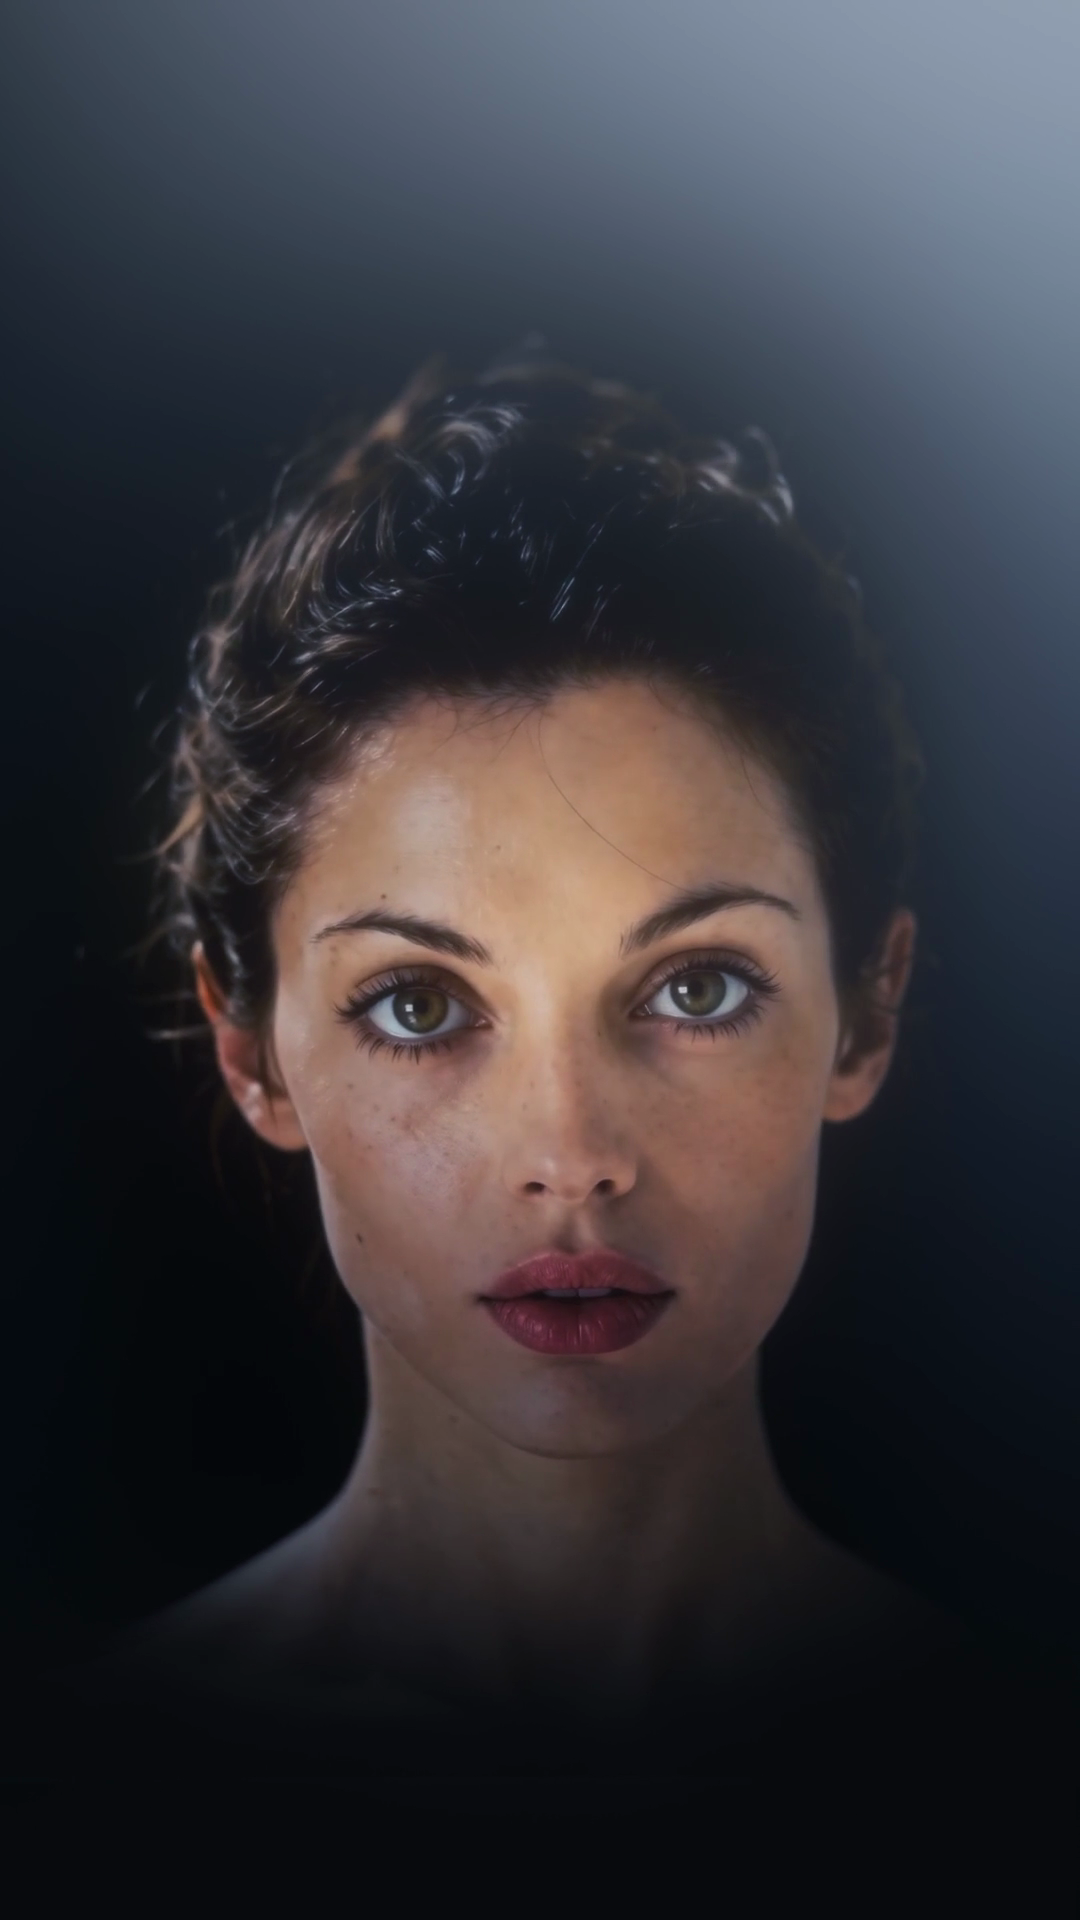
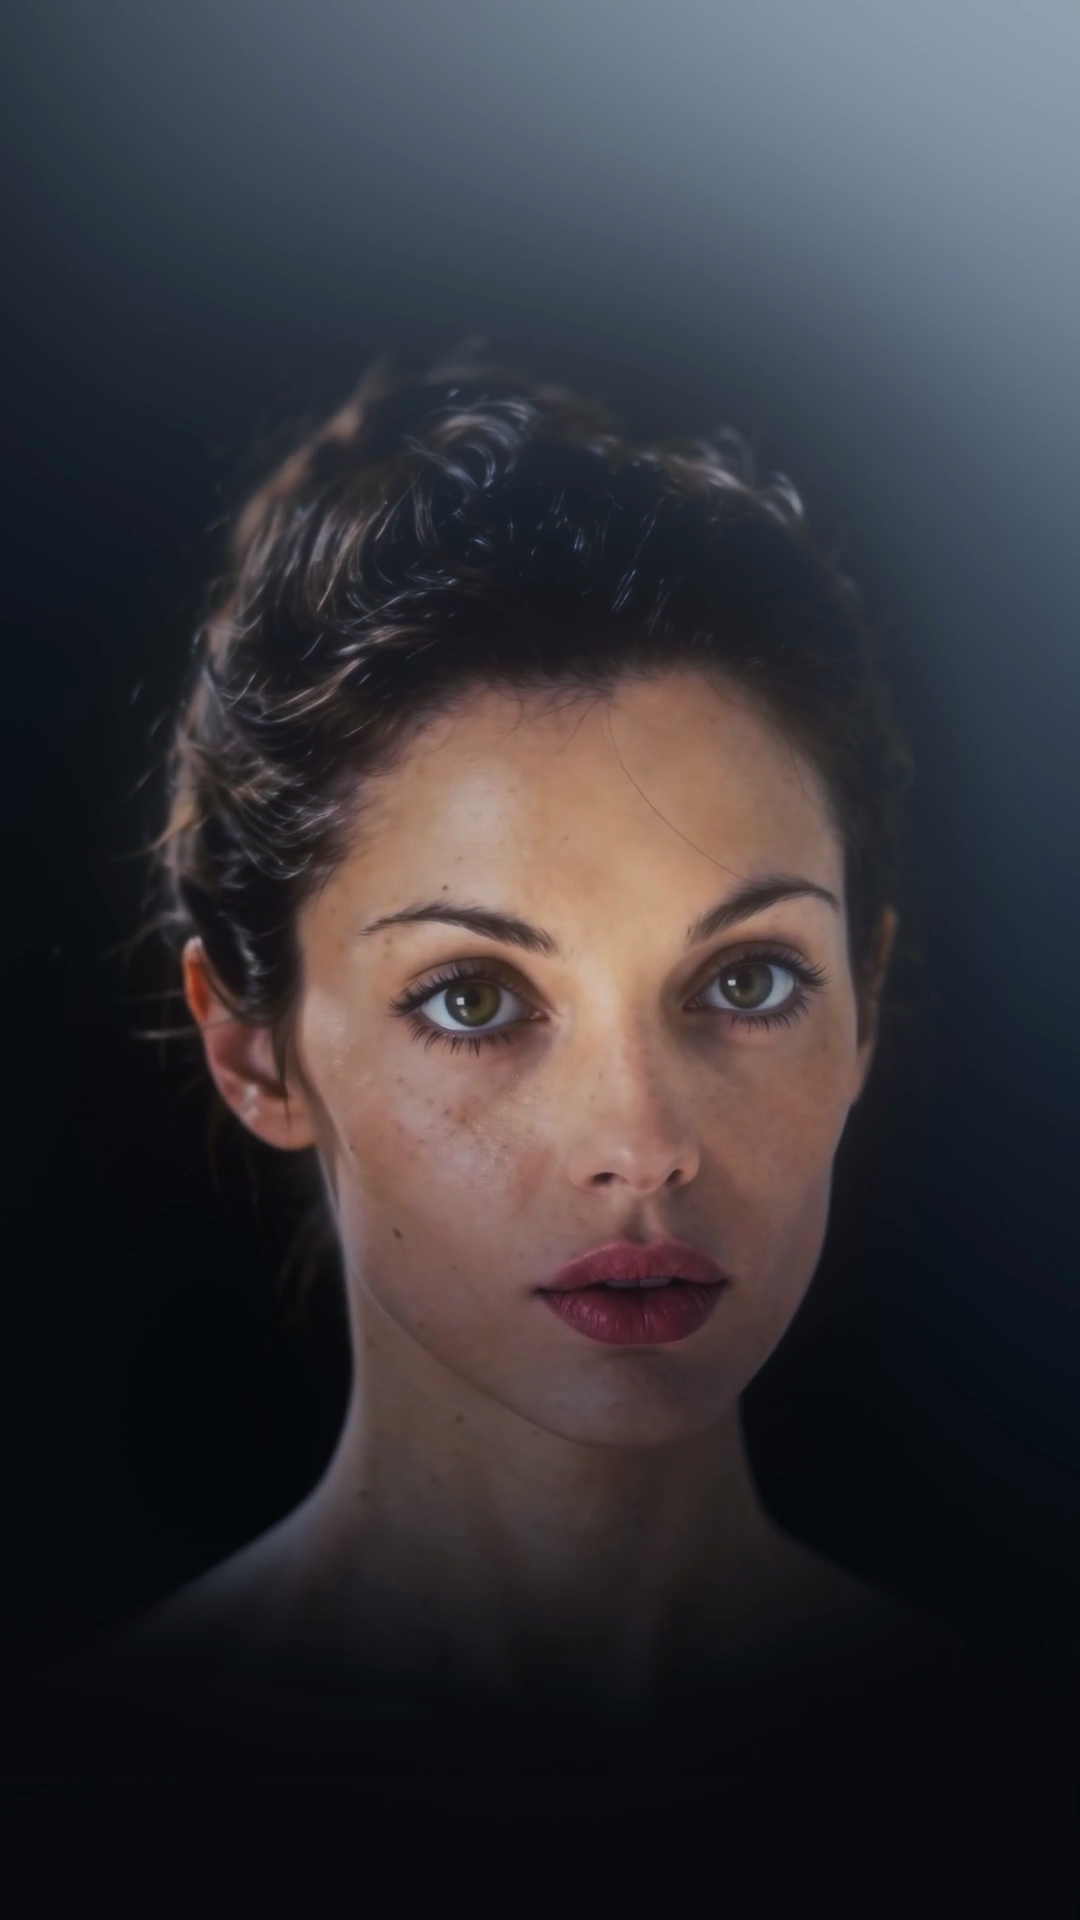
fix: regenerate intro posters from the real compressed video, fix reseek regression
Posters were extracted from the original uncompressed video, not the
actually-served compressed one — compression shifted colors enough that
every intro completion showed a visible mismatch (darker background).
Regenerated both from the real video-intro.mp4 / Mobile-video-intro.mp4.

Also fix video.js: the visibilitychange handler only reseeked to the true
last frame when the intro had already finished earlier, not when it was
force-finished by that same event (backgrounded mid-playback) — leaving the
video on whatever frame it was interrupted at. Now reseeks in both cases.

Also: flip Chin hotspot popup to open down-right by default (Nose/Lips
already had data-vertical="down"), revert an earlier accidental edit that
put it on the Jawline dot instead.

diff --git a/src/scripts/init/video.js b/src/scripts/init/video.js
@@ -117,19 +117,7 @@ function lockForIntro(video) {
       if (finished) return;
       finished = true;
       video.removeEventListener("timeupdate", onTimeUpdate);
-      document.removeEventListener("visibilitychange", onVisibilityChange);
       document.documentElement.classList.remove("intro-video");
-      // Ховаємо живий <video> і лишаємо статичний poster (той самий кадр,
-      // підтверджено пікселем-в-піксель) — так само як при SPA-поверненні
-      // нижче в setupPageIntro(). На відміну від <video>, статичну картинку
-      // мобільний браузер не може "скинути" на кадр з початку джерела після
-      // тривалого перебування вкладки у фоні — а живе відео може, навіть уже
-      // після "ended" (звідси репорт "наче відео перемоталось" після return).
-      video.pause();
-      video.autoplay = false;
-      video.preload = "none";
-      document.documentElement.classList.remove("intro-video-playing");
-      video.style.opacity = "0";
       markIntroDone();
    };
 
@@ -137,20 +125,35 @@ function lockForIntro(video) {
    // може лишитись на довільному, часто "перехідному" кадрі (кострубата
    // поза), а на деяких мобільних браузерах video.paused при цьому й не
    // стає true (декодер просто заморожений/скинутий), тож перевіряти стан
-   // відео ненадійно. Просто завершуємо інтро (finish() ховає відео і
-   // показує коректний poster) щоразу як вкладка знову стала видимою, поки
-   // інтро ще не завершилось — надійніше, ніж намагатись "оживити" play().
+   // відео ненадійно. Просто завершуємо інтро щоразу як вкладка знову стала
+   // видимою, поки інтро ще не завершилось.
+   //
+   // Якщо інтро вже завершилось РАНІШЕ і відео просто лишається видимим на
+   // останньому кадрі (звичайний, коректний стан спокою) — довге реальне
+   // перебування у фоні може змусити мобільний браузер скинути декодований
+   // буфер на кадр з початку джерела при поверненні. НЕ підміняємо відео
+   // окремою статичною картинкою (вона візуально не завжди 1-в-1 збігається
+   // з реальним останнім кадром — темніший фон на десктопі, помітний
+   // "стрибок" при КОЖНОМУ завершенні інтро) — натомість просто перемотуємо
+   // те саме відео назад на його справжній останній кадр.
    const onVisibilityChange = () => {
-      if (!document.hidden && !finished) {
-         finish();
-      }
+      if (document.hidden) return;
+      if (!finished) finish();
+      // Незалежно від того, щойно завершили інтро вище чи воно вже давно
+      // було завершене — перемотуємо на справжній останній кадр щоразу як
+      // вкладка знову видима (сам виклик дешевий і безпечний навіть якщо
+      // currentTime вже там, де треба).
+      if (video.duration) video.currentTime = video.duration;
    };
 
-   if (video.ended) { finish(); return; }
+   if (video.ended) { finish(); }
 
    video.addEventListener("ended", finish, { once: true });
    video.addEventListener("timeupdate", onTimeUpdate);
    document.addEventListener("visibilitychange", onVisibilityChange);
+   // Живе довше за finish() (навмисно — виправляє скинутий кадр і після
+   // завершення інтро), тож прибираємо його самі на page:leave нижче.
+   video._introVisibilityHandler = onVisibilityChange;
 
    const rate = video.dataset.playbackRate ? parseFloat(video.dataset.playbackRate) : 1;
    // Safari WebKit: playbackRate > 2 зависає. Обмежуємо до 2.
@@ -452,4 +455,10 @@ document.addEventListener("page:leave", () => {
    if (document.documentElement.classList.contains("intro-video")) {
       document.documentElement.classList.remove("intro-video");
    }
+   document.querySelectorAll(selectorAttr).forEach((video) => {
+      if (video._introVisibilityHandler) {
+         document.removeEventListener("visibilitychange", video._introVisibilityHandler);
+         video._introVisibilityHandler = null;
+      }
+   });
 });
